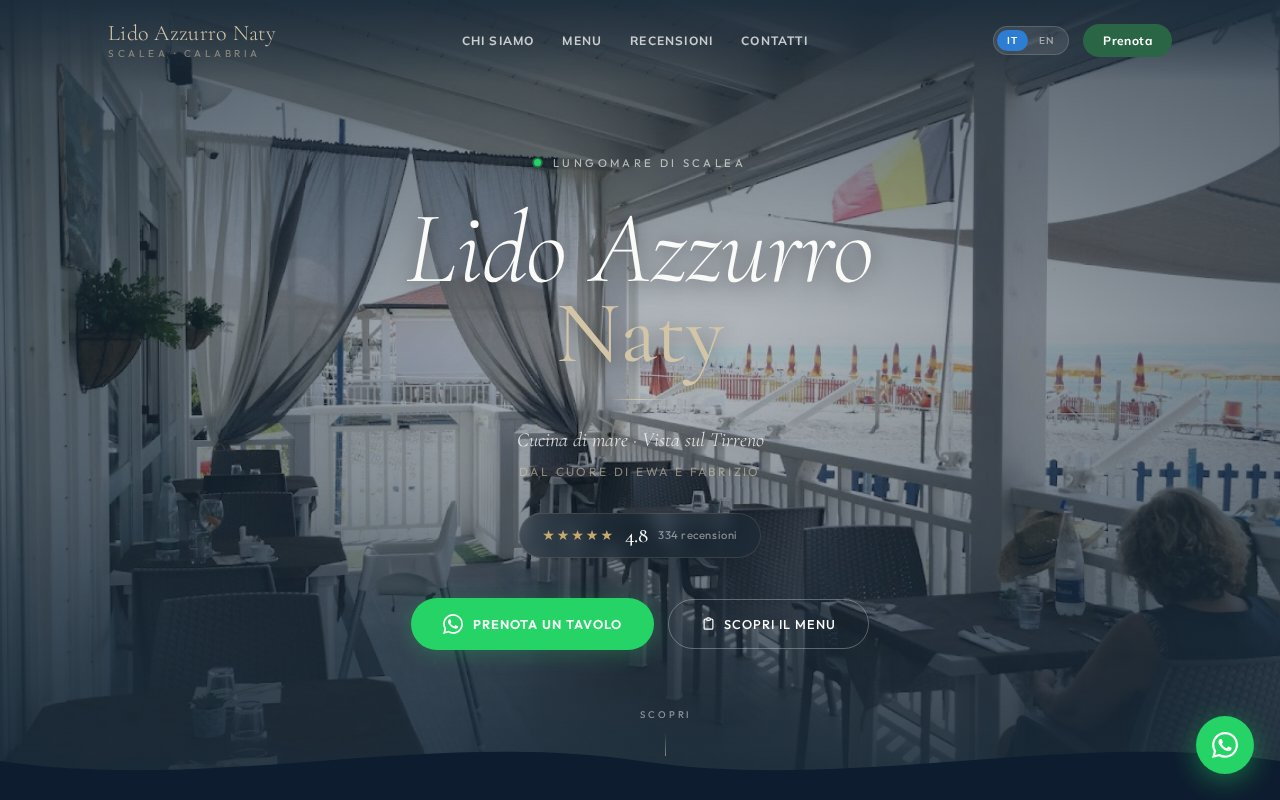
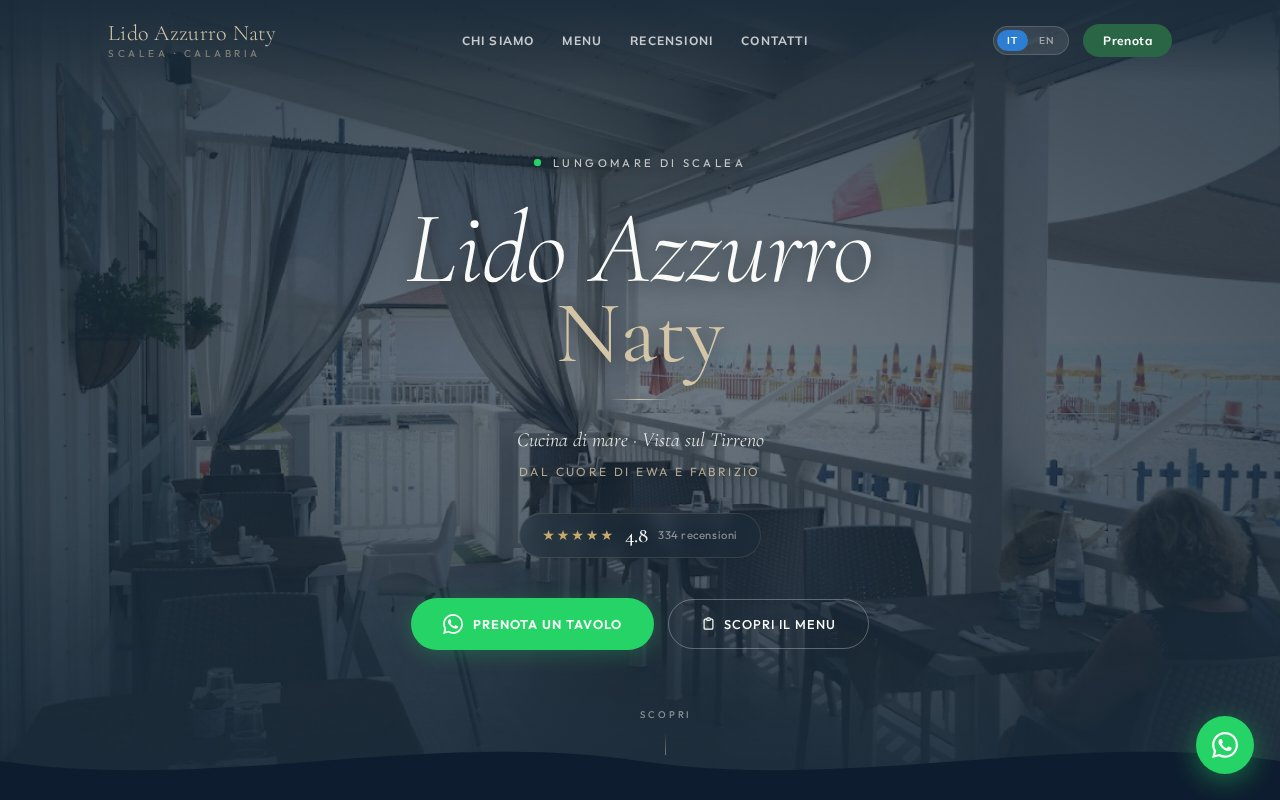
lido-azzurro: darker hero overlay + stronger text shadows

diff --git a/lido-azzurro/index.html b/lido-azzurro/index.html
@@ -199,9 +199,9 @@ button{cursor:pointer;border:none;background:none;font-family:var(--sans)}
 .hero-overlay{
   position:absolute;inset:0;z-index:1;pointer-events:none;
   background:
-    radial-gradient(ellipse at center, rgba(27,43,58,.15) 0%, rgba(27,43,58,.65) 100%),
-    linear-gradient(to top, rgba(27,43,58,.85) 0%, rgba(27,43,58,.3) 40%, rgba(27,43,58,.15) 60%, rgba(27,43,58,.4) 100%),
-    linear-gradient(135deg, rgba(74,124,155,.15) 0%, transparent 50%);
+    radial-gradient(ellipse at center, rgba(27,43,58,.35) 0%, rgba(27,43,58,.75) 100%),
+    linear-gradient(to top, rgba(27,43,58,.9) 0%, rgba(27,43,58,.5) 35%, rgba(27,43,58,.4) 55%, rgba(27,43,58,.55) 100%),
+    linear-gradient(135deg, rgba(74,124,155,.2) 0%, transparent 50%);
 }
 
 .hero-content{
@@ -215,7 +215,8 @@ button{cursor:pointer;border:none;background:none;font-family:var(--sans)}
   font-family:var(--ui);
   font-size:.7rem;font-weight:400;
   letter-spacing:.3em;text-transform:uppercase;
-  color:rgba(250,250,248,.65);
+  color:rgba(250,250,248,.75);
+  text-shadow:0 1px 10px rgba(0,0,0,.4);
   margin-bottom:32px;
   opacity:0;transform:translateY(20px);
   animation:heroUp .9s .2s cubic-bezier(.16,1,.3,1) forwards;
@@ -267,10 +268,10 @@ button{cursor:pointer;border:none;background:none;font-family:var(--sans)}
   font-family:var(--display);
   font-style:italic;font-weight:300;
   font-size:clamp(1rem,2vw,1.25rem);
-  color:rgba(250,250,248,.88);
+  color:rgba(250,250,248,.95);
   line-height:1.4;
   margin-bottom:10px;
-  text-shadow:0 2px 16px rgba(0,0,0,.5);
+  text-shadow:0 1px 10px rgba(0,0,0,.4),0 2px 20px rgba(0,0,0,.35);
   opacity:0;transform:translateY(20px);
   animation:heroUp .9s .75s cubic-bezier(.16,1,.3,1) forwards;
 }
@@ -278,7 +279,8 @@ button{cursor:pointer;border:none;background:none;font-family:var(--sans)}
   font-family:var(--ui);
   font-size:.75rem;font-weight:400;
   text-transform:uppercase;letter-spacing:.2em;
-  color:rgba(212,197,169,.6);
+  color:rgba(212,197,169,.8);
+  text-shadow:0 1px 10px rgba(0,0,0,.4);
   margin-bottom:34px;
   opacity:0;transform:translateY(20px);
   animation:heroUp .9s .85s cubic-bezier(.16,1,.3,1) forwards;
